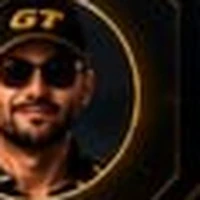
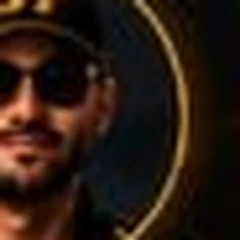
ui: техніка крупніше, прибрано зайвий текст, новий аватар
- прибрано «Велика Димерка» і «Люди. Можливості. Результат.»
- у лівій плашці лишився великий годинник з датою
- аватар власника перекадровано на обличчя, без рамки макета
- сцена з технікою збільшена, під нею неоновий подіум зі світловою лінією
- порожнеча в нижній частині центру закрита

Відкат: f1f88de2

diff --git a/gt-cyber.html b/gt-cyber.html
@@ -40,9 +40,21 @@ body{font-family:'Montserrat',system-ui,sans-serif;color:var(--txt);
   background:repeating-linear-gradient(180deg,transparent 0 3px,rgba(255,255,255,.014) 3px 4px)}
 
 /* Центральна сцена */
-.scene{position:absolute;left:50%;top:12%;transform:translateX(-50%);
-  width:57%;max-width:860px;z-index:1;pointer-events:none;
-  filter:saturate(1.15) contrast(1.04) drop-shadow(0 18px 44px rgba(0,0,0,.75))}
+.scene{position:absolute;left:50%;top:11%;transform:translateX(-50%);
+  width:62%;max-width:960px;z-index:1;pointer-events:none;
+  filter:saturate(1.18) contrast(1.05) drop-shadow(0 22px 50px rgba(0,0,0,.8))}
+/* відблиск-подіум під технікою — щоб низ не був порожнім */
+.floor{position:absolute;left:50%;transform:translateX(-50%);bottom:20%;
+  width:56%;max-width:880px;height:120px;z-index:0;pointer-events:none;
+  background:
+    radial-gradient(ellipse 50% 100% at 50% 0%,rgba(74,123,255,.32),transparent 72%),
+    radial-gradient(ellipse 34% 100% at 22% 6%,rgba(34,197,94,.2),transparent 72%),
+    radial-gradient(ellipse 30% 100% at 52% 6%,rgba(255,45,142,.24),transparent 72%),
+    radial-gradient(ellipse 32% 100% at 82% 6%,rgba(255,34,51,.22),transparent 72%);
+  filter:blur(14px)}
+.floor::after{content:'';position:absolute;left:6%;right:6%;top:0;height:2px;
+  background:linear-gradient(90deg,transparent,rgba(120,170,255,.75),transparent);
+  box-shadow:0 0 22px rgba(74,123,255,.85)}
 
 .layer{position:relative;z-index:3;display:grid;align-items:start;
   grid-template-columns:minmax(250px,24%) 1fr minmax(250px,24%);
@@ -55,7 +67,7 @@ body{font-family:'Montserrat',system-ui,sans-serif;color:var(--txt);
 .chip{display:flex;align-items:center;gap:10px;padding:8px 14px}
 .chip .ic{width:24px;height:24px;flex:0 0 auto;color:var(--red)}
 .chip b{display:block;font-size:.8rem;font-weight:800;letter-spacing:.04em;line-height:1.25}
-.chip small{display:block;font-family:'Share Tech Mono',monospace;font-size:.72rem;color:var(--cyan)}
+.chip small{display:block;font-family:'Share Tech Mono',monospace;font-size:.92rem;color:var(--cyan);letter-spacing:.04em}
 .chip.user{text-align:right;padding-right:9px}
 .chip.user b{color:var(--red);white-space:nowrap}
 .chip.user small{color:var(--dim);font-family:'Montserrat',sans-serif;font-weight:700;
@@ -185,6 +197,7 @@ body{font-family:'Montserrat',system-ui,sans-serif;color:var(--txt);
   .layer{grid-template-columns:1fr 1fr}
   .col.mid{grid-column:1/-1;order:9}
   .scene{width:92%;opacity:.4}
+  .floor{display:none}
   .bar{grid-template-columns:repeat(4,1fr)}
 }
 @media(max-width:680px){
@@ -194,7 +207,7 @@ body{font-family:'Montserrat',system-ui,sans-serif;color:var(--txt);
   .chip.user{flex-direction:row-reverse;justify-content:flex-end;text-align:left;
     padding-right:15px;padding-left:9px}
   .col.mid{order:-1}
-  .scene,.fly{display:none}
+  .scene,.fly,.floor{display:none}
   .stat{padding:0 3px;gap:6px} .stat svg{width:21px;height:21px} .stat b{font-size:.9rem}
   .bar{grid-template-columns:repeat(2,1fr)}
   .bar a{font-size:.58rem;padding:12px 6px}
@@ -205,6 +218,7 @@ a:focus-visible{outline:2px solid var(--cyan);outline-offset:3px}
 </head>
 <body>
 <div class="stage">
+  <span class="floor" aria-hidden="true"></span>
   <img class="scene" src="img/scene-cyber.webp" alt="" aria-hidden="true">
 
   <div class="fly" aria-hidden="true">
@@ -222,14 +236,13 @@ a:focus-visible{outline:2px solid var(--cyan);outline-offset:3px}
     <header class="hdr">
       <div class="panel chip">
         <svg class="ic" viewBox="0 0 24 24" fill="none" stroke="currentColor" stroke-width="2.2">
-          <path d="M12 21s7-5.5 7-11a7 7 0 1 0-14 0c0 5.5 7 11 7 11z"/><circle cx="12" cy="10" r="2.6"/></svg>
-        <div><b>ВЕЛИКА ДИМЕРКА</b><small id="clock">—</small></div>
+          <circle cx="12" cy="12" r="9"/><path d="M12 7v5.4l3.4 2"/></svg>
+        <div><small id="clock">—</small></div>
       </div>
 
       <div class="title">
         <h1><em>GT</em> LABORATORY</h1>
         <h2>TOP SECRET</h2>
-        <p>Люди. Можливості. Результат.</p>
         <div class="hud">
           <span>SECURE NETWORK</span><span>ENCRYPTED CHANNEL</span>
           <span>STATUS <i>ONLINE</i></span><span>ACCESS LEVEL 7</span>

diff --git a/index.html b/index.html
@@ -40,9 +40,21 @@ body{font-family:'Montserrat',system-ui,sans-serif;color:var(--txt);
   background:repeating-linear-gradient(180deg,transparent 0 3px,rgba(255,255,255,.014) 3px 4px)}
 
 /* Центральна сцена */
-.scene{position:absolute;left:50%;top:12%;transform:translateX(-50%);
-  width:57%;max-width:860px;z-index:1;pointer-events:none;
-  filter:saturate(1.15) contrast(1.04) drop-shadow(0 18px 44px rgba(0,0,0,.75))}
+.scene{position:absolute;left:50%;top:11%;transform:translateX(-50%);
+  width:62%;max-width:960px;z-index:1;pointer-events:none;
+  filter:saturate(1.18) contrast(1.05) drop-shadow(0 22px 50px rgba(0,0,0,.8))}
+/* відблиск-подіум під технікою — щоб низ не був порожнім */
+.floor{position:absolute;left:50%;transform:translateX(-50%);bottom:20%;
+  width:56%;max-width:880px;height:120px;z-index:0;pointer-events:none;
+  background:
+    radial-gradient(ellipse 50% 100% at 50% 0%,rgba(74,123,255,.32),transparent 72%),
+    radial-gradient(ellipse 34% 100% at 22% 6%,rgba(34,197,94,.2),transparent 72%),
+    radial-gradient(ellipse 30% 100% at 52% 6%,rgba(255,45,142,.24),transparent 72%),
+    radial-gradient(ellipse 32% 100% at 82% 6%,rgba(255,34,51,.22),transparent 72%);
+  filter:blur(14px)}
+.floor::after{content:'';position:absolute;left:6%;right:6%;top:0;height:2px;
+  background:linear-gradient(90deg,transparent,rgba(120,170,255,.75),transparent);
+  box-shadow:0 0 22px rgba(74,123,255,.85)}
 
 .layer{position:relative;z-index:3;display:grid;align-items:start;
   grid-template-columns:minmax(250px,24%) 1fr minmax(250px,24%);
@@ -55,7 +67,7 @@ body{font-family:'Montserrat',system-ui,sans-serif;color:var(--txt);
 .chip{display:flex;align-items:center;gap:10px;padding:8px 14px}
 .chip .ic{width:24px;height:24px;flex:0 0 auto;color:var(--red)}
 .chip b{display:block;font-size:.8rem;font-weight:800;letter-spacing:.04em;line-height:1.25}
-.chip small{display:block;font-family:'Share Tech Mono',monospace;font-size:.72rem;color:var(--cyan)}
+.chip small{display:block;font-family:'Share Tech Mono',monospace;font-size:.92rem;color:var(--cyan);letter-spacing:.04em}
 .chip.user{text-align:right;padding-right:9px}
 .chip.user b{color:var(--red);white-space:nowrap}
 .chip.user small{color:var(--dim);font-family:'Montserrat',sans-serif;font-weight:700;
@@ -185,6 +197,7 @@ body{font-family:'Montserrat',system-ui,sans-serif;color:var(--txt);
   .layer{grid-template-columns:1fr 1fr}
   .col.mid{grid-column:1/-1;order:9}
   .scene{width:92%;opacity:.4}
+  .floor{display:none}
   .bar{grid-template-columns:repeat(4,1fr)}
 }
 @media(max-width:680px){
@@ -194,7 +207,7 @@ body{font-family:'Montserrat',system-ui,sans-serif;color:var(--txt);
   .chip.user{flex-direction:row-reverse;justify-content:flex-end;text-align:left;
     padding-right:15px;padding-left:9px}
   .col.mid{order:-1}
-  .scene,.fly{display:none}
+  .scene,.fly,.floor{display:none}
   .stat{padding:0 3px;gap:6px} .stat svg{width:21px;height:21px} .stat b{font-size:.9rem}
   .bar{grid-template-columns:repeat(2,1fr)}
   .bar a{font-size:.58rem;padding:12px 6px}
@@ -205,6 +218,7 @@ a:focus-visible{outline:2px solid var(--cyan);outline-offset:3px}
 </head>
 <body>
 <div class="stage">
+  <span class="floor" aria-hidden="true"></span>
   <img class="scene" src="img/scene-cyber.webp" alt="" aria-hidden="true">
 
   <div class="fly" aria-hidden="true">
@@ -222,14 +236,13 @@ a:focus-visible{outline:2px solid var(--cyan);outline-offset:3px}
     <header class="hdr">
       <div class="panel chip">
         <svg class="ic" viewBox="0 0 24 24" fill="none" stroke="currentColor" stroke-width="2.2">
-          <path d="M12 21s7-5.5 7-11a7 7 0 1 0-14 0c0 5.5 7 11 7 11z"/><circle cx="12" cy="10" r="2.6"/></svg>
-        <div><b>ВЕЛИКА ДИМЕРКА</b><small id="clock">—</small></div>
+          <circle cx="12" cy="12" r="9"/><path d="M12 7v5.4l3.4 2"/></svg>
+        <div><small id="clock">—</small></div>
       </div>
 
       <div class="title">
         <h1><em>GT</em> LABORATORY</h1>
         <h2>TOP SECRET</h2>
-        <p>Люди. Можливості. Результат.</p>
         <div class="hud">
           <span>SECURE NETWORK</span><span>ENCRYPTED CHANNEL</span>
           <span>STATUS <i>ONLINE</i></span><span>ACCESS LEVEL 7</span>
